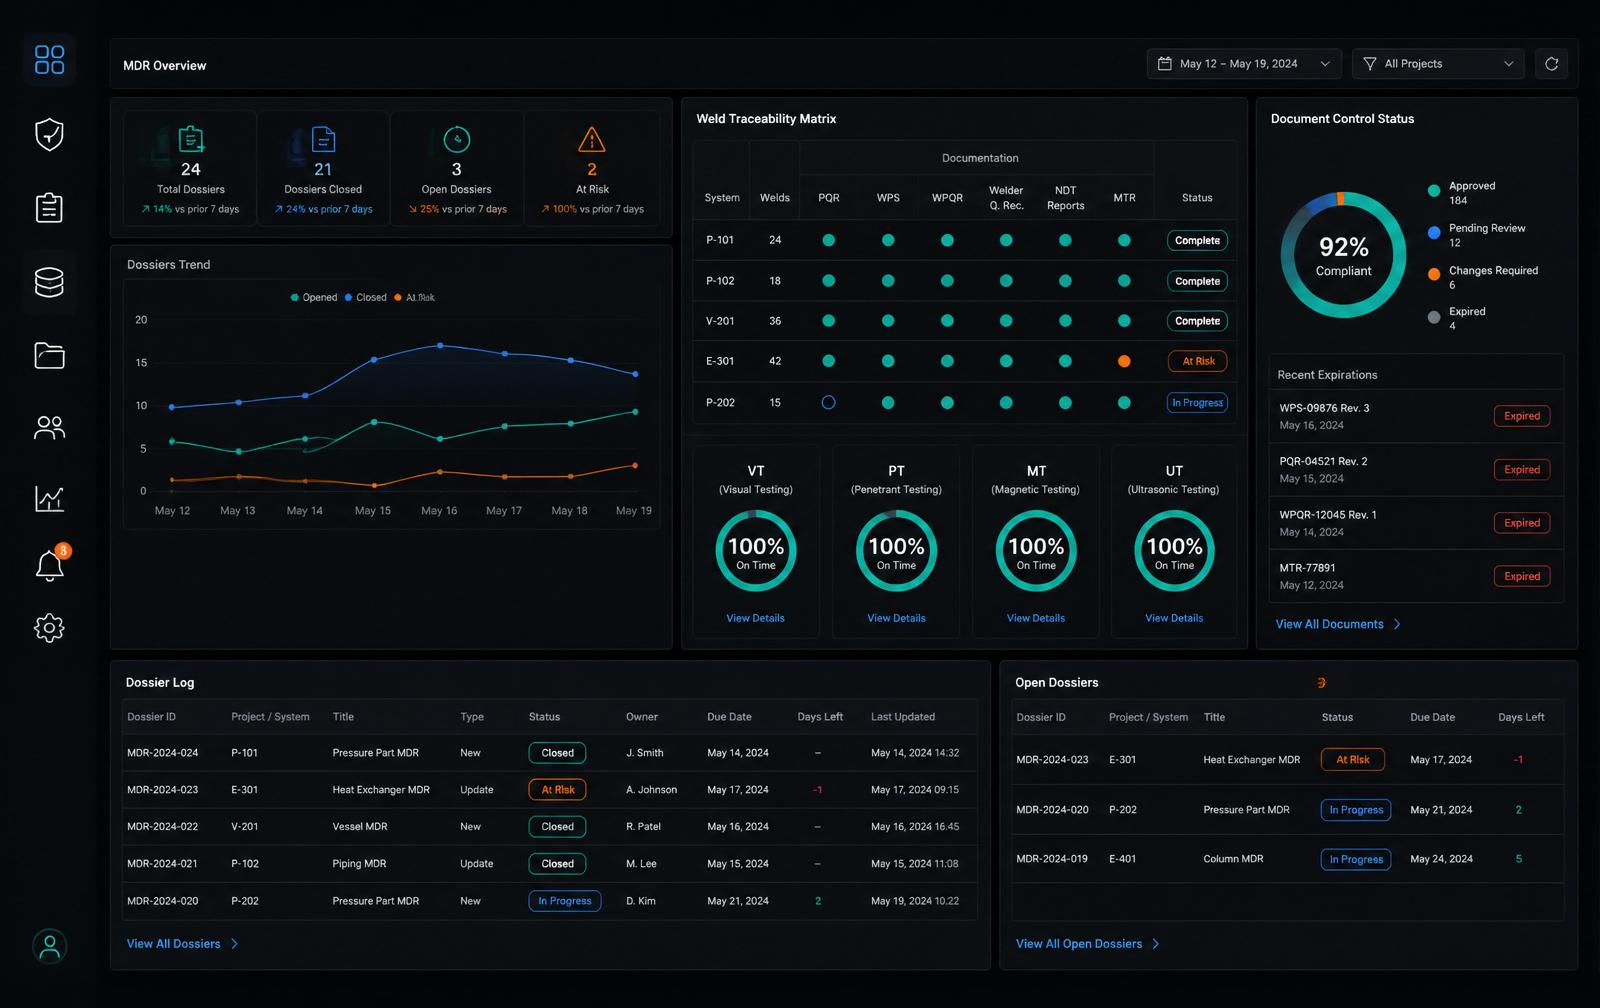
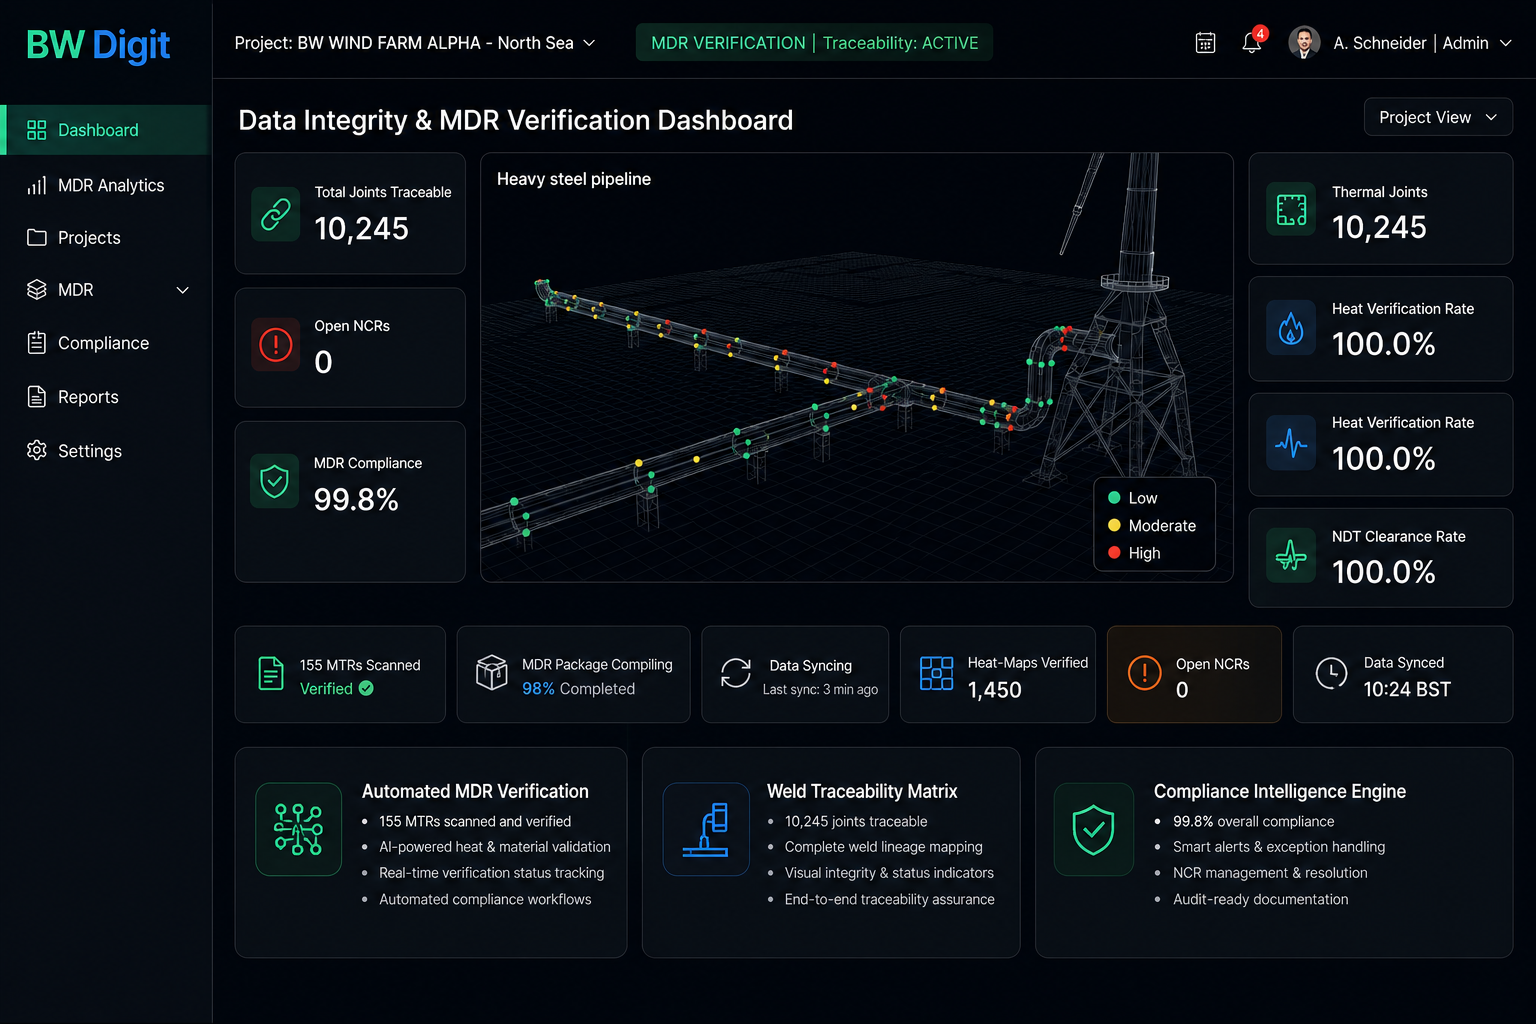
All issues fixed

diff --git a/src/app/[locale]/page.js b/src/app/[locale]/page.js
@@ -63,7 +63,7 @@ export default async function Home({ params }) {
       <section className="flex flex-col items-center my-10 lg:my-20">
         <h1 className="main-heading text-center">{t.services_section.title}</h1>
         {/* Service Cards */}
-        <div className="grid grid-cols-1 lg:grid-cols-3 mx-5 justify-between items-stretch gap-x-5">
+        <div className="grid grid-cols-1 lg:grid-cols-3 mx-5 justify-between items-stretchh gap-x-5">
           {t.services.map((service, index) => {
             const Icon = services[index].Icon;
             return (
@@ -138,19 +138,19 @@ export default async function Home({ params }) {
         <p className="text-primary/70 text-center">
           {t.heritage_section.description}
         </p>
-        <div className="grid grid-cols-1 lg:grid-cols-2 gap-8 Lg:mx-10 mx-2 mt-5 max-w-6xl">
+        <div className="grid grid-cols-1 lg:grid-cols-4 gap-8 items-stretch Lg:mx-10 mx-2 mt-5 max-w-6xl">
           {t.heritage.map((h, index) => {
             const Icon = heritage[index].icon;
             return (
               <AnimateIn key={index} delay={index * 0.1}>
-                <div className="bg-card rounded-2xl overflow-hidden hover:border hover:border-primary-accent transition-all ">
-                  <div className="bg-card rounded-2xl p-6 hover:border hover:border-primary-accent transition-all">
+                <div className="bg-card rounded-2xl overflow-hidden hover:border hover:border-primary-accent transition-all h-full flex flex-col justify-center items-center">
+                  <div className="bg-card rounded-2xl p-6 hover:border hover:border-primary-accent transition-all flex-1">
                     <h3 className="text-lg font-heading text-primary">
                       {h.title}
                     </h3>
-                    <p className="mt-2 text-primary/70 leading-relaxed">
+                    {/* <p className="mt-2 text-primary/70 leading-relaxed">
                       {h.description}
-                    </p>
+                    </p> */}
                   </div>
                 </div>
               </AnimateIn>
@@ -202,9 +202,13 @@ export default async function Home({ params }) {
             return (
               <AnimateIn key={index} delay={index * 0.1}>
                 <div className="text-primary bg-card p-10 flex flex-col gap-x-5 gap-y-6 lg:my-10 my-5 rounded-2xl hover:border-[0.5px] hover:border-primary-accent   transition-all">
-                  <div className="bg-secondary/10 w-fit p-3 rounded-2xl text-primary-accent">
-                    <Icon />
-                  </div>
+                  <Image 
+                  src={outcome.image}
+                  alt={outcome.title}
+                  width={100}
+                    height={100}
+                    className="self-center rounded-2xl"
+                  />
                   <h1 className="text-2xl font-heading text-primary-accent">
                     {outcome.percentage}
                   </h1>
@@ -224,7 +228,7 @@ export default async function Home({ params }) {
         id="blog"
       >
         <h1 className="main-heading text-center">{t.studies_section.title}</h1>
-        <p className="text-primary/70 text-center">
+        <p className="text-primary/70 text-center ">
           {t.studies_section.description}
         </p>
         <div className="grid grid-cols-1 lg:grid-cols-3 gap-x-5 mx-5 lg:mx-10">
@@ -243,7 +247,7 @@ export default async function Home({ params }) {
                   <h3 className="text-sm font-heading text-primary-accent">
                     {study.tagline}
                   </h3>
-                  <h1 className="text-lg font-semibold font-heading">
+                  <h1 className="text-lg font-semibold font-heading -mt-4">
                     {study.title}
                   </h1>
                   <p className="font-body text-base">{study.description}</p>
@@ -342,7 +346,7 @@ export default async function Home({ params }) {
           <button type="submit">
             <CtaButton
               changeStyle={
-                "bg-primary-accent text-primary-foreground px-6 py-3 rounded-3xl border-2 border-primary-accent font-semibold hover:bg-primary-accent/90 transition-colors cursor-pointer w-full lg:w-fit shadow-[0_20px_90px_-100px_rgba(94,234,212,0.5),0_8px_10px_-6px_rgba(94,234,212,0.5)] text-center"
+                "bg-transparent hover:text-primary text-primary-accent px-6 py-3 rounded-3xl border-2 border-primary-accent font-semibold hover:bg-primary-accent/90 transition-colors cursor-pointer w-full shadow-[0_20px_90px_-100px_rgba(94,234,212,0.5),0_8px_10px_-6px_rgba(94,234,212,0.5)] text-center"
               }
             >
               {t.contact_form.submit}

diff --git a/src/components/Footer.jsx b/src/components/Footer.jsx
@@ -9,10 +9,6 @@ export default function Footer() {
           {/* Brand */}
           <div>
             <div className="flex items-center gap-2">
-              <span className="grid size-8 place-items-center rounded-md border border-primary/20 bg-card">
-                <CircleDot className="size-4 text-primary-accent" />
-              </span>
-
               <span className="font-heading text-lg font-semibold text-primary">
                 BW Digit
               </span>
@@ -35,19 +31,28 @@ export default function Footer() {
 
             <ul className="mt-5 space-y-3 text-sm text-primary/70">
               <li>
-                <Link href="#" className="hover:text-primary-accent transition-colors">
+                <Link
+                  href="#"
+                  className="hover:text-primary-accent transition-colors"
+                >
                   MDR Automation
                 </Link>
               </li>
 
               <li>
-                <Link href="#" className="hover:text-primary-accent transition-colors">
+                <Link
+                  href="#"
+                  className="hover:text-primary-accent transition-colors"
+                >
                   Weld Traceability
                 </Link>
               </li>
 
               <li>
-                <Link href="#" className="hover:text-primary-accent transition-colors">
+                <Link
+                  href="#"
+                  className="hover:text-primary-accent transition-colors"
+                >
                   Compliance Verification
                 </Link>
               </li>
@@ -62,13 +67,19 @@ export default function Footer() {
 
             <ul className="mt-5 space-y-3 text-sm text-primary/70">
               <li>
-                <Link href="#" className="hover:text-primary-accent transition-colors">
+                <Link
+                  href="https://www.pipelinequality.com/en/"
+                  className="hover:text-primary-accent transition-colors"
+                >
                   Pipeline Quality
                 </Link>
               </li>
 
               <li>
-                <Link href="#" className="hover:text-primary-accent transition-colors">
+                <Link
+                  href="https://www.backpackwander.com/"
+                  className="hover:text-primary-accent transition-colors"
+                >
                   Backpack Wander
                 </Link>
               </li>
@@ -93,8 +104,11 @@ export default function Footer() {
                 </a>
               </li>
 
-              <li className="flex items-center gap-2">
-                <Link href="#" className="hover:text-primary-accent transition-colors">
+              <li className="flex items-center gap-2">100.png0.
+                <Link
+                  href="https://www.linkedin.com/company/backpackwander/"
+                  className="hover:text-primary-accent transition-colors"
+                >
                   LinkedIn
                 </Link>
               </li>
